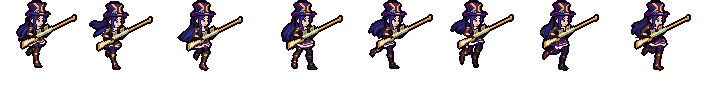
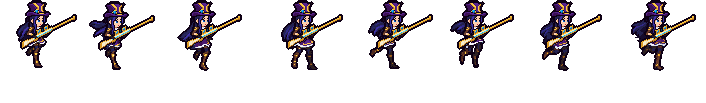
凯特琳跑步：整个上身每帧都用第 0 帧的同一张（头、脖子、领子、上衣、手臂、枪），枪口不再顶到脸（tools/art/caitlyn_run_shade.py）（用户：「感觉枪口会顶到脸上啊 摆动的时候」「脖子和身体也有点变形 为什么呢 这里也看着很怪」）
- 原因：枪按每帧原画里手的位置放，头按帽子的平滑路径放，两者的相对位置每帧不一样：
  第 6、7 帧枪口离帽子近了 3、5 格，第 6 帧枪的描边贴着脸，第 7 帧枪贴着下巴。
  脖子、白领子、胸衣、外套也还是每帧自己的画，每帧形状不一样。
- 改法：第 0 帧的整个上身（头、脖子、白领子、胸衣、外套、手臂、手、枪：腰线第 39 行以上，
  后面飘的头发除外；夹在袖子和领子之间露出来的那点头发算上身）按每帧头的位置整格放上去，
  不缩放、不转。每帧只有后面飘的头发、裙子、腿是自己的。
- 接缝：先去掉每帧自己的上身。腰：空隙用裙子的颜色补，外套下沿悬空的地方补 2 格描边。
  后发：和上身之间的空隙用头发补，贴着上身补 2 格描边；头发里的紫色点算头发。
- 检查：上身、头、脖子领子、躯干、枪和手 8 帧与第 0 帧逐格相同（0 格不同）；
  枪本身离脸（皮肤、下巴、嘴）8 帧都是 2 格，枪的描边 1 格；枪口减帽子 8 帧一样；
  帽子路径、后腿调暗、帧 5 拉长的腿不变；脚在地面线上；没有新空洞、新颜色；run_fix 审查无问题；
  描边中位数 2 格（85% 分位 2 -> 3：第 0 帧自己的描边带到了每帧）。
- 枪的上下滞后没有做：两只手在胸前握枪，枪跟着上身动。

diff --git a/tools/art/caitlyn_run_shade.py b/tools/art/caitlyn_run_shade.py
@@ -1,8 +1,10 @@
 #!/usr/bin/env python3
-"""league_caitlyn's run: her own drawn frames with one rifle held the same way, her body on one path, the far leg
-darker and one head in every frame (the user, on her run: 「女警看不出交叉步啊」, then 「调暗后腿试试」 - darken the back leg -
-「怎么感觉耳朵也变形了」 - her ear changed from frame to frame - 「先改模型的要」 - fix what deforms first: the rifle grew and
-shrank - and 「感觉还是不自然 不知道为什么 有卡顿感」: her upper body lurched once a cycle and one step had 3 slow frames).
+"""league_caitlyn's run: her own drawn frames with one upper body - head, neck, collar, bodice, jacket, arms and
+rifle, one drawing - on one path, the far leg darker (the user, on her run: 「女警看不出交叉步啊」, then 「调暗后腿试试」 -
+darken the back leg - 「怎么感觉耳朵也变形了」 - her ear changed from frame to frame - 「先改模型的要」 - fix what deforms
+first: the rifle grew and shrank - 「感觉还是不自然 不知道为什么 有卡顿感」: her upper body lurched once a cycle and one step
+had 3 slow frames - then 「感觉枪口会顶到脸上啊 摆动的时候」 and 「脖子和身体也有点变形」: the rifle followed each frame's
+hand while her head followed the hat's path, and her neck and torso were each frame's own).
 
     python tools/art/caitlyn_run_shade.py                 # run / hd_run / lo_run into the sheet (+ the strips)
     python tools/art/caitlyn_run_shade.py --check         # exit 1 when the sheet's run tags are not what it makes
@@ -10,8 +12,7 @@ shrank - and 「感觉还是不自然 不知道为什么 有卡顿感」: her up
 
 The frames are her old run's 8 drawings (assets/source/caitlyn/hd/caitlyn_run_drawn.png: 0 1 2 3 4 6 7 as
 tools/art/run_fix.py left them, the feet on the ground line; 5 as drawn), 117 ms each - two steps of 4. Her squares
-are moved only whole (STRETCH, LEAN, SHIFT); the rifle is one drawing, only colours change on the far leg, and the
-head is one drawing:
+are moved only whole (STRETCH, LEAN, SHIFT); only colours change on the far leg; the upper body is one drawing:
 
 - her body's path (STRETCH / LEAN / SHIFT): frame 5's short legs stretched to the others' length; her upper body moved
   along the row in frames 4 and 7 so her hat holds its place over the cycle (the skirt and legs stay; the gaps that
@@ -33,7 +34,16 @@ head is one drawing:
   on the head's side of it; round the head the frame's own hat, face and sidelocks cleared (never the rifle), her back
   hair kept; where the head meets that hair, 2 squares of outline on the hair's side; an edge the clearing bared
   closed with outline, and a pinhole of ground the head shut in filled with outline. The ear's window then changes
-  from frame to frame only where her hair moves behind it.
+  from frame to frame only where her hair moves behind it;
+- the upper body (one_body), last: frame 0's as the steps above made it - the head, the neck, the white collar, the
+  bodice, the jacket, the arms, the hands and the rifle unit: everything above its waist (WAIST) but the back hair,
+  with the hair her body shuts in (seen between her sleeve and her collar) - laid on every frame where that frame's
+  head is (on the hat's path, by whole squares; the rifle at frame 0's distance from her face in every frame). Each
+  frame's own upper body is taken out first; the gaps that leaves inside her are filled from her own squares round
+  them (the skirt's at the waist, the hair's at her back), the rest cleared, bared edges outlined; where the laid body
+  meets the frame's back hair, 2 squares of outline on the hair's side; where its waist overhangs the ground, 2
+  squares of outline. Only her back hair, the skirt and the legs are each frame's own (and no frame has the rifle
+  across her chin any more: frame 0's rifle is 2 squares off her face, its outline 1).
 The 1x frames come from the dense ones as tools/art/ppu_one.py's one_frame makes them, at her 1x tags' own scale
 (ONE: her idle, attack and old run 1x frames are her hd_ ones at 1 / 1.5, not 1 / PPU - a run at 1 / 1.45 stood
 4 % taller than her other 1x tags), the lo_ frames as tools/art/ppu_hd.py's add_lo does. Her frames feed no derived
@@ -181,6 +191,7 @@ def place(a, h, hm, at, idle):
 
 
 HAIR = {(22, 12, 44), (35, 33, 79), (40, 39, 98), (49, 41, 137), (64, 49, 168)}     # her hair's navies
+ACCENTS = {(47, 12, 65), (59, 16, 86), (74, 25, 111), (87, 36, 144)}               # (and its purples: the hat's)
 # her own head's colours (cleared round the locked head): the outline, the hat's purples, the hair, skin, blush, mouth -
 # never the rifle's golds, creams, whites or blues passing her face
 HEADS = {OUT, (47, 12, 65), (59, 16, 86), (74, 25, 111), (87, 36, 144), (252, 207, 174), (244, 162, 125),
@@ -321,6 +332,13 @@ STRETCH = {5: (45, 23)}
 LEAN = {4: (39, 8), 7: (38, -5)}
 # whole frames moved a square to line the hat up with the rest (her hat's x then varies by half a square at most)
 SHIFT = {3: -1, 5: -1, 6: 1}
+# ------------------------------------------------------------------------------------------------- one upper body
+# Frame 0's upper body - its head, neck, collar, bodice, jacket, arms and the rifle unit: all above the skirt but her
+# back hair - laid in every frame on that frame's head (the hat's path), so head, hands and rifle never move against
+# each other and no other frame's neck or torso shows (the user on 886e9a0a2: 「感觉枪口会顶到脸上啊 摆动的时候」 - the
+# rifle followed each frame's drawn grip, 3-5 squares nearer her face in frames 6, 7 - and 「脖子和身体也有点变形 为什么呢
+# 这里也看着很怪」). Each frame keeps its flowing back hair, its skirt and its legs. WAIST: each frame's first skirt row.
+WAIST = {0: 39, 1: 42, 2: 41, 3: 38, 4: 42, 5: 38, 6: 39, 7: 38}
 SKIN = [(252, 207, 174), (244, 162, 125)]
 BROWN = [(135, 80, 35), (108, 61, 43), (79, 42, 31), (45, 32, 32)]
 WHITE = [(251, 250, 251), (223, 227, 242), (196, 201, 229), (122, 113, 105)]
@@ -401,15 +419,17 @@ def disk(r):
     return (y * y + x * x) <= r * r + 0.5
 
 
-def fill_in(b, inside, keep_out):
+def fill_in(b, inside, keep_out, strict=False):
     """The inside squares of b filled from her own colours round them, ring by ring: the commonest of the 8 neighbours
     (not the squares keep_out marks - the rifle put in - nor rifle colours, skin or the outline; the outline only where
-    nothing else reaches)."""
+    nothing else reaches; strict: never from keep_out's squares, and a square only those reach left clear)."""
     key = (b[..., 0].astype(np.int64) << 16) | (b[..., 1].astype(np.int64) << 8) | b[..., 2]
     ink = (OUT[0] << 16) | (OUT[1] << 8) | OUT[2]
     voter = ((b[..., 3] > 0) & ~inside & ~keep_out & ~T.is_outline(b, [OUT]) & ~colour_mask(b, GROW)
              & ~colour_mask(b, SKIN))
     known = (b[..., 3] > 0) & ~inside
+    if strict:
+        known &= ~keep_out
     todo = inside.copy()
     while todo.any():
         for pool in (voter, known):
@@ -436,9 +456,11 @@ def fill_in(b, inside, keep_out):
             todo[y, x] = False
 
 
-def close_edges(b, cleared):
-    """An edge the cleared squares bare: 2 squares of outline on the cleared side."""
+def close_edges(b, cleared, among=None):
+    """An edge the cleared squares bare: 2 squares of outline on the cleared side (of the squares `among` marks)."""
     solid = (b[..., 3] > 0) & ~T.is_outline(b, [OUT])
+    if among is not None:
+        solid &= among
     d = T.steps_from(solid, np.ones(b.shape[:2], bool), 2)
     close = cleared & (d <= 2) & ndimage.binary_dilation(solid & ndimage.binary_dilation(cleared), iterations=2)
     b[close, :3] = OUT
@@ -576,6 +598,101 @@ def leaned(frames, units):
     return out, moved_by, held_units
 
 
+def upper(a, head, unit, waist):
+    """Frame a's upper body (everything above row waist, and its rifle unit) but her back hair -> (upper body, back
+    hair). The back hair: the big runs of her hair's navies outside the head (and the purple accents in them), with
+    the outline that is theirs alone - not the hair her body shuts in (seen between her sleeve and her collar: part of
+    the upper body's drawing)."""
+    op = a[..., 3] > 0
+    above = np.zeros(a.shape[:2], bool)
+    above[:waist] = True
+    ink = T.is_outline(a, [OUT])
+    hair = colour_mask(a, HAIR) & ~head & above & ~unit
+    lab, n = ndimage.label(hair, structure=np.ones((3, 3)))
+    if n:
+        sz = ndimage.sum(hair, lab, range(1, n + 1))
+        hair = np.isin(lab, [j + 1 for j in range(n) if sz[j] >= 12])
+    # her hair's purple accents (the hat's purples) where they lie in it
+    lab, n = ndimage.label((colour_mask(a, HAIR | ACCENTS) & ~head & above & ~unit), structure=np.ones((3, 3)))
+    keep = np.unique(lab[hair])
+    hair = np.isin(lab, keep[keep > 0])
+    k8 = np.ones((3, 3))
+    body = ((above & op) | unit) & ~hair & ~ink
+    inner = hair & ndimage.binary_fill_holes(body | (ink & ndimage.binary_dilation(body, structure=k8)))
+    hair &= ~inner
+    body |= inner
+    rest = op & ~ink & ~body
+    # its outline: a square deep against her other squares, two against the ground
+    edge = (ndimage.binary_dilation(body, structure=k8)
+            | (ndimage.binary_dilation(body, structure=k8, iterations=2) & ~ndimage.binary_dilation(rest, structure=k8)))
+    ub = body | (ink & ((above & op) | unit) & edge)
+    back = hair | (ink & above & ~ub & ndimage.binary_dilation(hair, structure=k8))
+    return ub, back
+
+
+def one_body(dense, info):
+    """Every frame's upper body taken out and frame 0's laid on its head (WAIST, upper): the gaps that leaves inside
+    her filled from her own squares round them (never from the laid body's), the rest cleared, bared edges outlined;
+    where the laid body meets the frame's back hair, its outline made 2 squares on the hair's side; where its waist
+    overhangs the ground, 2 squares of outline under it. Sets each frame's "unit", "head" and "rifle_over" to frame
+    0's where they now are, "upper" (the laid squares) and "joined" (the squares drawn to join them)."""
+    ref, ri = dense[0], info[0]
+    ub0, _ = upper(ref, ri["head"], ri["unit"], WAIST[0])
+    ys, xs = np.nonzero(ub0)
+    solid0 = ub0 & ~T.is_outline(ref, [OUT])
+    out = [ref]
+    for i in range(1, len(dense)):
+        a, inf = dense[i], info[i]
+        dx = inf["head_at"][0] - ri["head_at"][0]
+        dy = inf["head_at"][1] - ri["head_at"][1]
+        ub, back = upper(a, inf["head"], inf["unit"], WAIST[i])
+        ty, tx = ys + dy, xs + dx
+        if ty.min() < 0 or tx.min() < 0 or ty.max() >= a.shape[0] or tx.max() >= a.shape[1]:
+            sys.exit(f"{HERO}: frame 0's upper body leaves frame {i}'s rect")
+        put = np.zeros(a.shape[:2], bool)
+        put[ty, tx] = True
+        solid = np.zeros(a.shape[:2], bool)
+        sy, sx = np.nonzero(solid0)
+        solid[sy + dy, sx + dx] = True
+        b = a.copy()
+        b[ub] = 0
+        b[ty, tx] = ref[ys, xs]
+        gap = ub & ~put
+        inside = gap & ndimage.binary_closing((a[..., 3] > 0) & ~ub | put, structure=disk(3))
+        b[gap] = 0
+        fill_in(b, inside, put, strict=True)
+        filled = inside & (b[..., 3] > 0)
+        close_edges(b, gap & (b[..., 3] == 0), ~put)    # (the laid body brings its own outline)
+        # her back hair against the laid body (and a gap filled on the hair's side - nearer her back hair than her
+        # skirt): 2 squares of outline there (on the hair's side)
+        d = T.steps_from(solid, np.ones(a.shape[:2], bool), 2)
+        low = (a[..., 3] > 0) & ~ub & ~back & ~T.is_outline(a, [OUT])
+        hair_side = filled & (ndimage.distance_transform_edt(~back) < ndimage.distance_transform_edt(~low))
+        seam = (back | hair_side) & ~T.is_outline(b, [OUT]) & (b[..., 3] > 0) & (d >= 1) & (d <= 2) & ~put
+        b[seam, :3] = OUT
+        b[seam, 3] = 255
+        # the laid body's own edges that met frame 0's other squares (its waist, its hair's windows) where this frame
+        # has ground: 2 squares of outline
+        air = b[..., 3] == 0
+        bare = air & ndimage.binary_dilation(solid, structure=np.ones((3, 3)))
+        bare |= air & (d <= 2) & ndimage.binary_dilation(bare, structure=np.ones((3, 3)))
+        b[bare, :3] = OUT
+        b[bare, 3] = 255
+        shut = pockets(b) & ~pockets(a)
+        b[shut, :3] = OUT
+        b[shut, 3] = 255
+        out.append(b)
+        inf["joined"] = (filled | seam | bare | shut | (gap & (b[..., 3] > 0))) & ~put
+        for key in ("unit", "head", "rifle_over"):       # (frame 0's, where they now are)
+            m = np.zeros(a.shape[:2], bool)
+            my, mx = np.nonzero(ri[key])
+            m[my + dy, mx + dx] = True
+            inf[key] = m & (b[..., 3] > 0) if key == "unit" else m
+        inf["upper"] = put
+    info[0]["upper"] = ub0
+    return out
+
+
 def make():
     """-> {"hd_run", "run", "lo_run": [(frame, ms)]} and per frame the far leg's and the head's squares."""
     import ppu_one
@@ -594,6 +711,7 @@ def make():
         dense.append(b)
         info.append({"far": far_mask(a, i, moved_by[i]), "head": head, "head_at": head_at, "rifle_over": over,
                      "held": a, "unit": units[i] & (b[..., 3] > 0) & (~head | over)})
+    dense = one_body(dense, info)
     one = []
     for b, (w, hh) in zip(dense, ones):
         ws = [w + 2 * k for k in range(14)]
